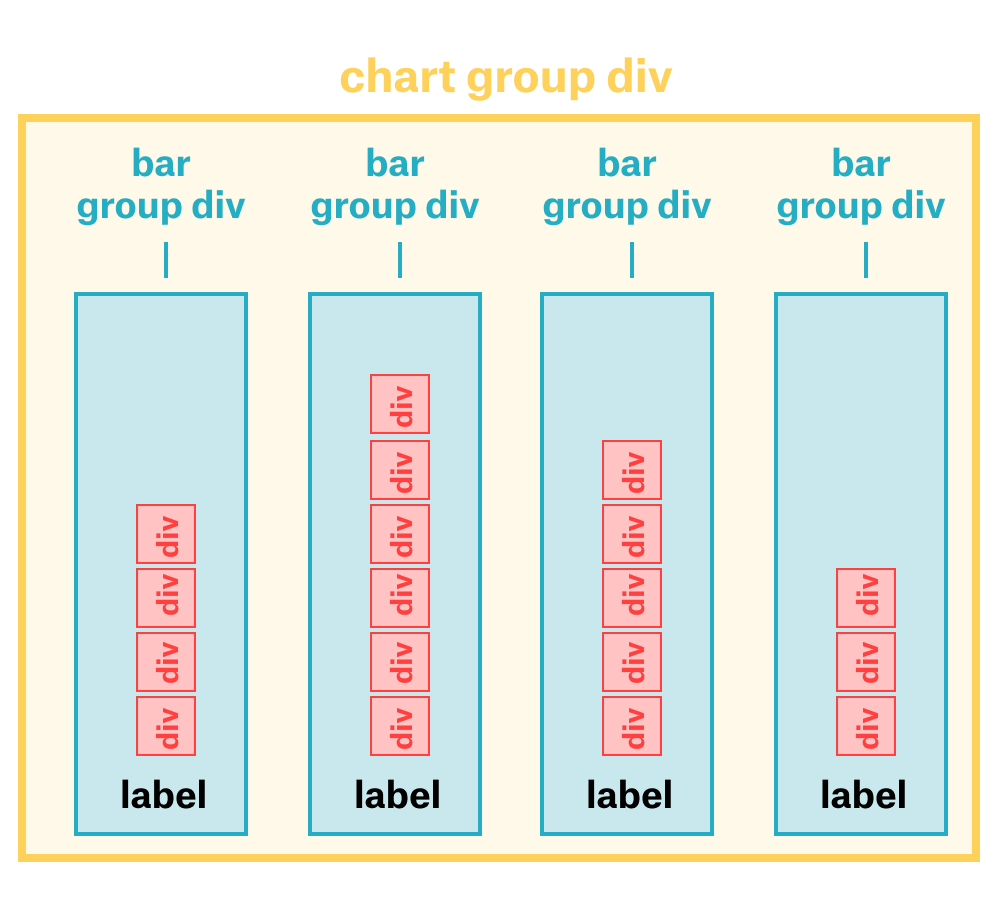
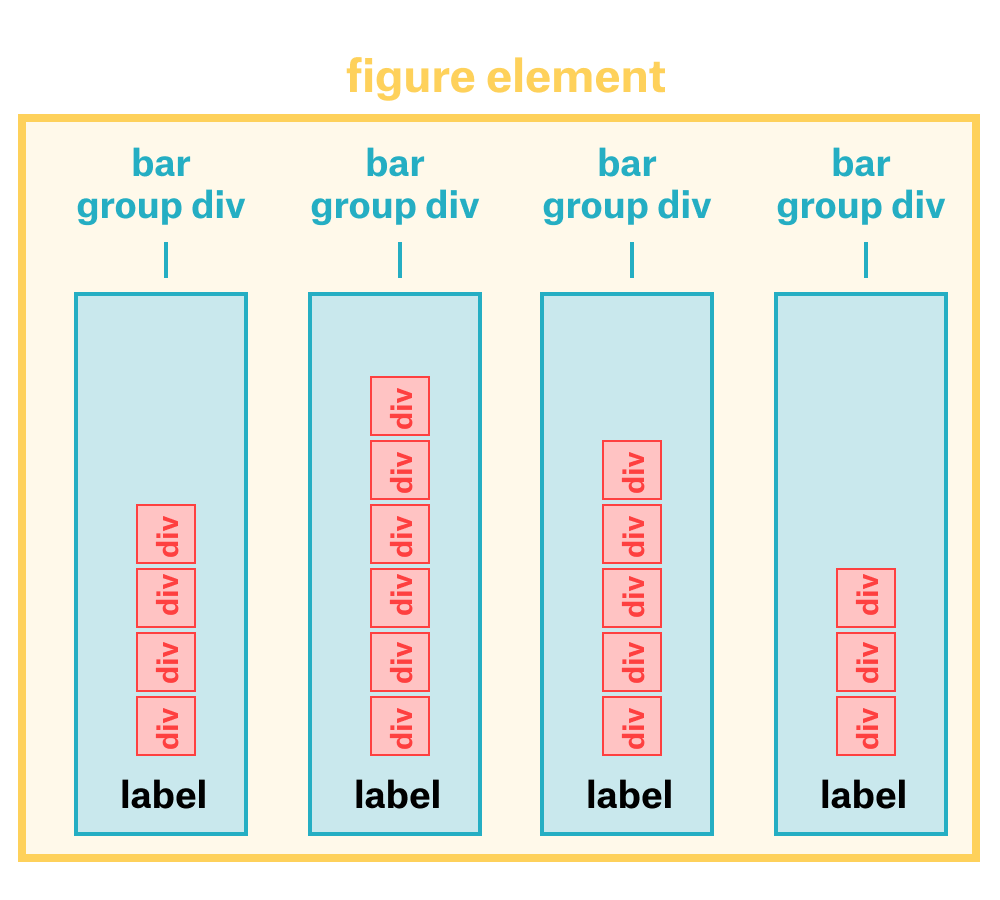
Wrapping up stack section

Changed region(s): [[0.341, 0.0622, 0.682, 0.1244], [0.372, 0.4044, 0.434, 0.4978], [0.62, 0.6222, 0.651, 0.6844]]

diff --git a/src/assets/prism/stack.js b/src/assets/prism/stack.js
@@ -1,0 +1,75 @@
+// Enter data (this could have been imported)
+const socialMedia = [{
+  month: 'April',
+  counts: {'Facebook': 7045, 'YouTube': 4816, 'Twitter': 4717, 'Instagram': 96}
+}, {
+  month: 'May',
+  counts: {'Facebook': 11401, 'YouTube': 1708, 'Twitter': 10433, 'Instagram': 129}
+}, {
+  month: 'June',
+  counts: {'Facebook': 16974, 'YouTube': 3190, 'Twitter': 9874, 'Instagram': 471}
+}]
+
+// Add a total value for each month
+const smTotal = socialMedia.map(function(d){
+  const values = d3.entries(d.counts)
+  const total = d.counts.Facebook + d.counts.YouTube + d.counts.Twitter + d.counts.Instagram
+  return {month: d.month, counts: values, total: total}
+})
+
+// create a Y scale for the data
+const scaleY = d3.scaleLinear()
+  .range([0, 200])
+  .domain([0, d3.max(smTotal, function(d){
+    return d.total
+  })])
+
+// create a color scale for the data where Facebook is red
+const scaleColor = d3.scaleOrdinal()
+  .range(['#FE4A49', '#cccccc', '#dddddd', '#eeeeee'])
+  .domain(['Facebook', 'YouTube', 'Twitter', 'Instagram'])
+
+// Select the figure element
+const stack = d3.select('.stack')
+
+// Add a div for each month
+const group = stack
+  .selectAll('.group')
+  .data(smTotal)
+  .enter()
+  .append('div')
+  .attr('class', 'group')
+
+// Add a block for each social media type
+const block = group
+  .selectAll('.block')
+  .data(function(d){
+    return d.counts
+  })
+  .enter()
+  .append('div')
+  .attr('class', 'block')
+  // And scale the height of the box based on the value
+  .style('height', function(d){
+    return `${scaleY(d.value)}px`
+  })
+  // Scale the color based on the social media type
+  .style('background-color', function(d){
+    return scaleColor(d.key)
+  })
+
+// Add a month label
+const label = group
+  .append('text')
+  .text(function(d){
+    return d.month
+  })
+  .attr('class', 'label')
+
+// Add a total count label
+const count = group
+  .append('text')
+  .text(function(d){
+    return d3.format('0.2s')(d.total)
+  })
+  .attr('class', 'count')

diff --git a/src/assets/prism/stack.css b/src/assets/prism/stack.css
@@ -1,0 +1,31 @@
+.stack{
+  display: flex;
+  flex-direction: row;
+  align-items: flex-end;
+  margin: 0 auto;
+  width: 200px;
+}
+
+.group{
+  display: flex;
+  flex-direction: column-reverse;
+  margin: 0.5rem 0;
+  width: 45px;
+  align-items: center;
+}
+
+.block{
+  width: 15px;
+  order: 1;
+  margin-bottom: 0rem;
+}
+
+.label{
+  order: 0;
+  width: 50px;
+  text-align: center;
+}
+
+.count{
+  order: 2;
+}

diff --git a/src/assets/prism/stack.html b/src/assets/prism/stack.html
@@ -1,0 +1,1 @@
+<figure class='stack'></figure>
